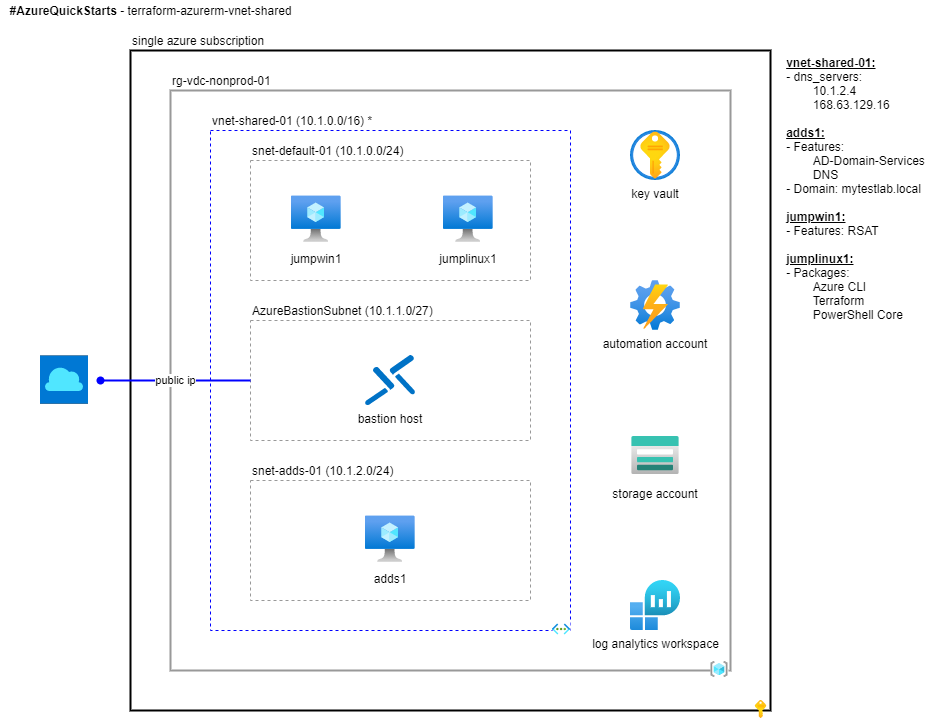
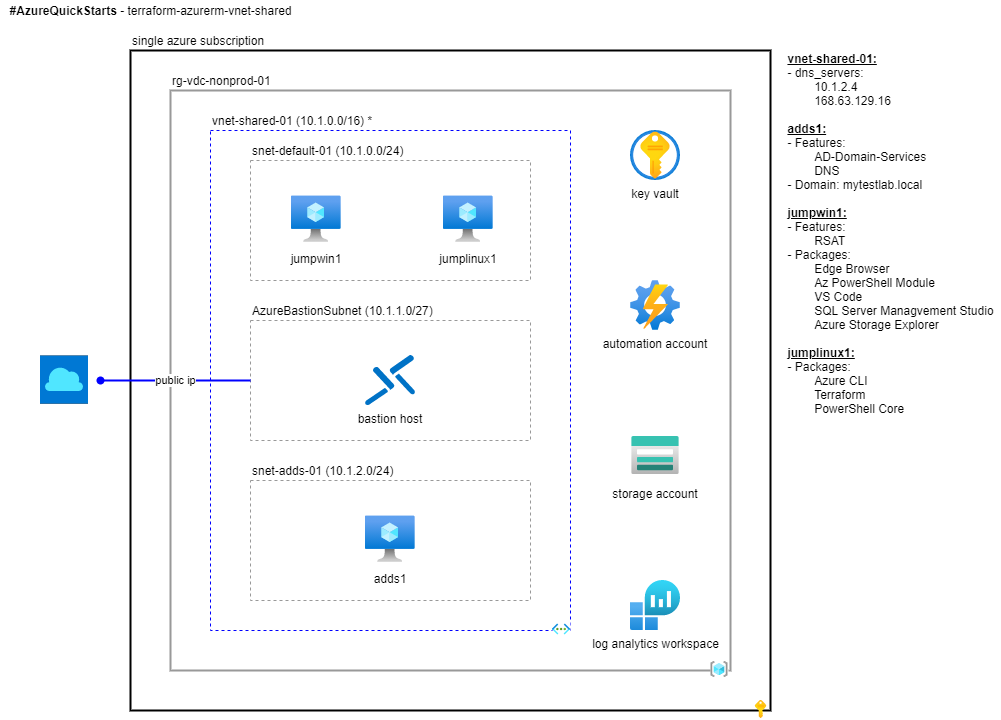
vnet shared upcate winjump config

diff --git a/terraform-azurerm-vnet-shared/README.md b/terraform-azurerm-vnet-shared/README.md
@@ -70,7 +70,7 @@ This section describes how to provision this quick start using default settings.
   * Ping the domain controller to verify connectivity.
   * Inspect the configuration of the domain using the *Active Directory Domains and Trusts*, *Active Directory Sites and Services* and *Active Directory Users and Computers* remote server administration tools.
   * Inspect the configuration of the DNS server using the *DNS* remote server administration tool.
-  * Install [Visual Studio Code](https://aka.ms/vscode) and the [Remote-SSH](https://marketplace.visualstudio.com/items?itemName=ms-vscode-remote.remote-ssh) extension.
+  * Launch [Visual Studio Code](https://aka.ms/vscode) and install the [Remote-SSH](https://marketplace.visualstudio.com/items?itemName=ms-vscode-remote.remote-ssh) extension.
   * Configure Visual Studio Code to connect to the Linux jumpbox using Remote-SSH. See [Improving your security with a dedicated key](https://code.visualstudio.com/docs/remote/troubleshooting#_improving-your-security-with-a-dedicated-key) for more info.
     * The SSH keys can be found in the key vault secrets *bootstrapadmin-ssh-key-private* and *bootstrapadmin-ssh-key-public*. Here is a sample SSH configuration file to get you started:
 
@@ -81,8 +81,8 @@ This section describes how to provision this quick start using default settings.
       IdentityFile C:\\Users\\bootstrapadmin\\.ssh\\bootstrap-admin-ssh-key-private
     ```
 
-    * In VS Code, open the folder `/home/bootstrapadmin/` on the Linux Jumpbox.
-    * In VS Code, open a Bash terminal and verify the Linux distribution and version by running the command `cat \etc\*-release`.
+    * Open the folder `/home/bootstrapadmin/` on the Linux Jumpbox.
+    * Open a Bash terminal and verify the Linux distribution and version by running the command `cat \etc\*-release`.
 
 ## Documentation
 
@@ -177,6 +177,15 @@ This Windows Server VM is used as a jumpbox for development and remote server ad
 * By default the [patch orchestration mode](https://docs.microsoft.com/en-us/azure/virtual-machines/automatic-vm-guest-patching#patch-orchestration-modes) is set to `AutomaticByPlatform`.
 * *admin_username* and *admin_password* are configured using key vault secrets *data.azurerm_key_vault_secret.adminpassword* and *data.azurerm_key_vault_secret.adminuser* which are set in advance by [bootstrap.sh](./bootstrap.sh).
 * This resource is configured using a [provisioner](https://www.terraform.io/docs/language/resources/provisioners/syntax.html) that runs [configure-vm-jumpbox.ps1](./configure-vm-jumpbox.ps1) which registers the node with *azurerm_automation_account.automation_account_01* and applies the configuration [JumpBoxConfig](./JumpBoxConfig.ps1).
+  * The following Windows Server features are enabled:
+    * [Windows Server Remote Server Administration Tools (RSAT)](https://docs.microsoft.com/en-us/windows-server/remote/remote-server-administration-tools)
+      * []
+  * The following software packages are pre-installed using [Choclatey](https://chocolatey.org/why-chocolatey):
+    * [Microsoft Edge](https://www.microsoft.com/en-us/edge?r=1)
+    * [Azure Az PowerShell Module](https://docs.microsoft.com/en-us/powershell/azure/new-azureps-module-az?view=azps-6.4.0)
+    * [Visual Studio Code](https://aka.ms/vscode)
+    * [SQL Server Management Studio](https://docs.microsoft.com/en-us/sql/ssms/sql-server-management-studio-ssms?view=sql-server-ver15)
+    * [Azure Storage Explorer](https://docs.microsoft.com/en-us/azure/vs-azure-tools-storage-manage-with-storage-explorer?tabs=windows)
 
 #### Linux Jumpbox VM
 
